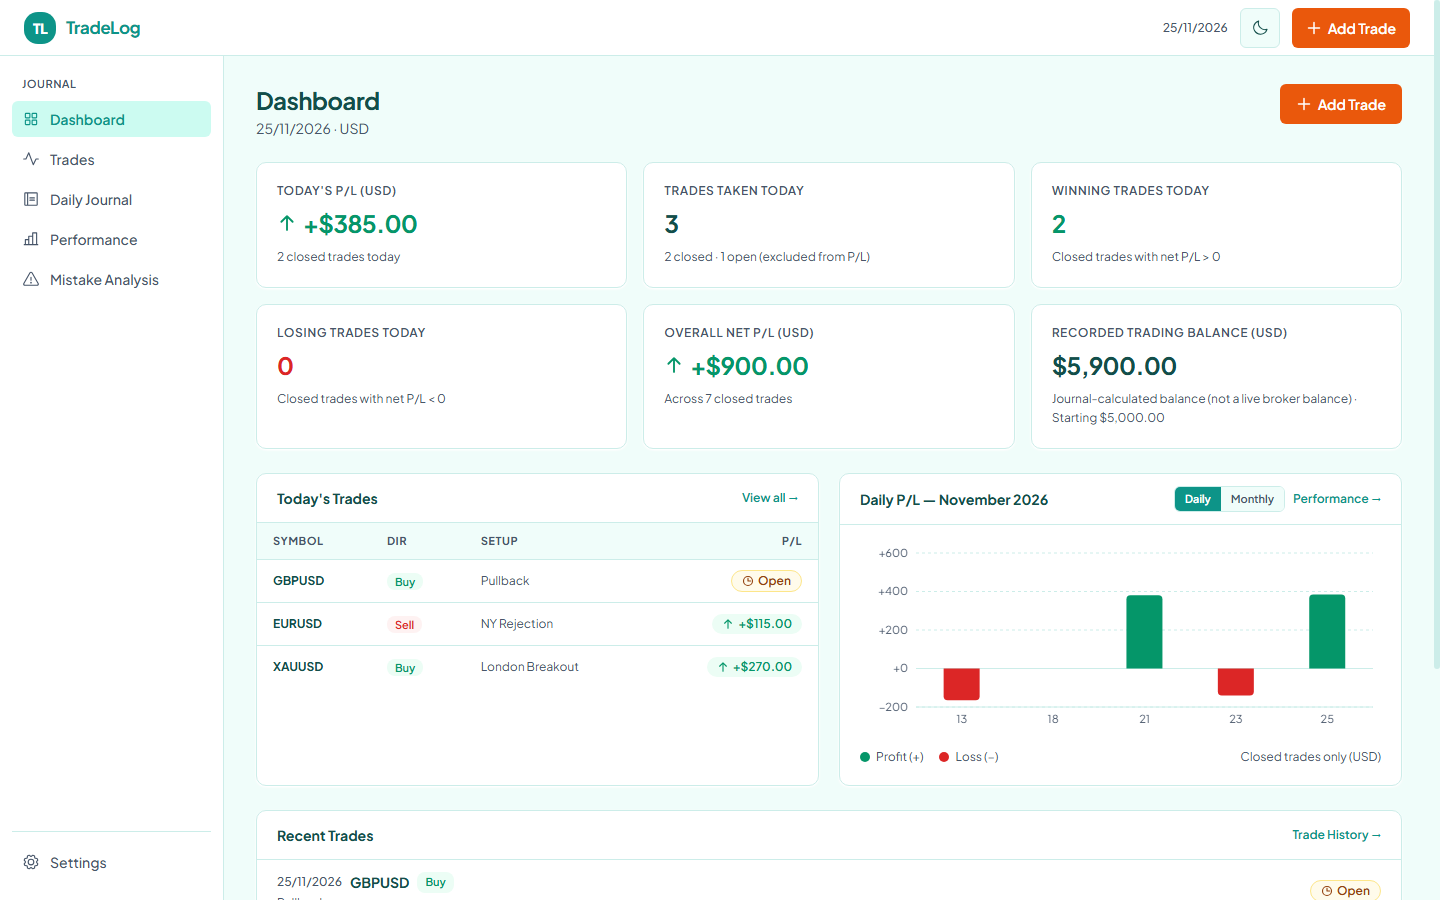
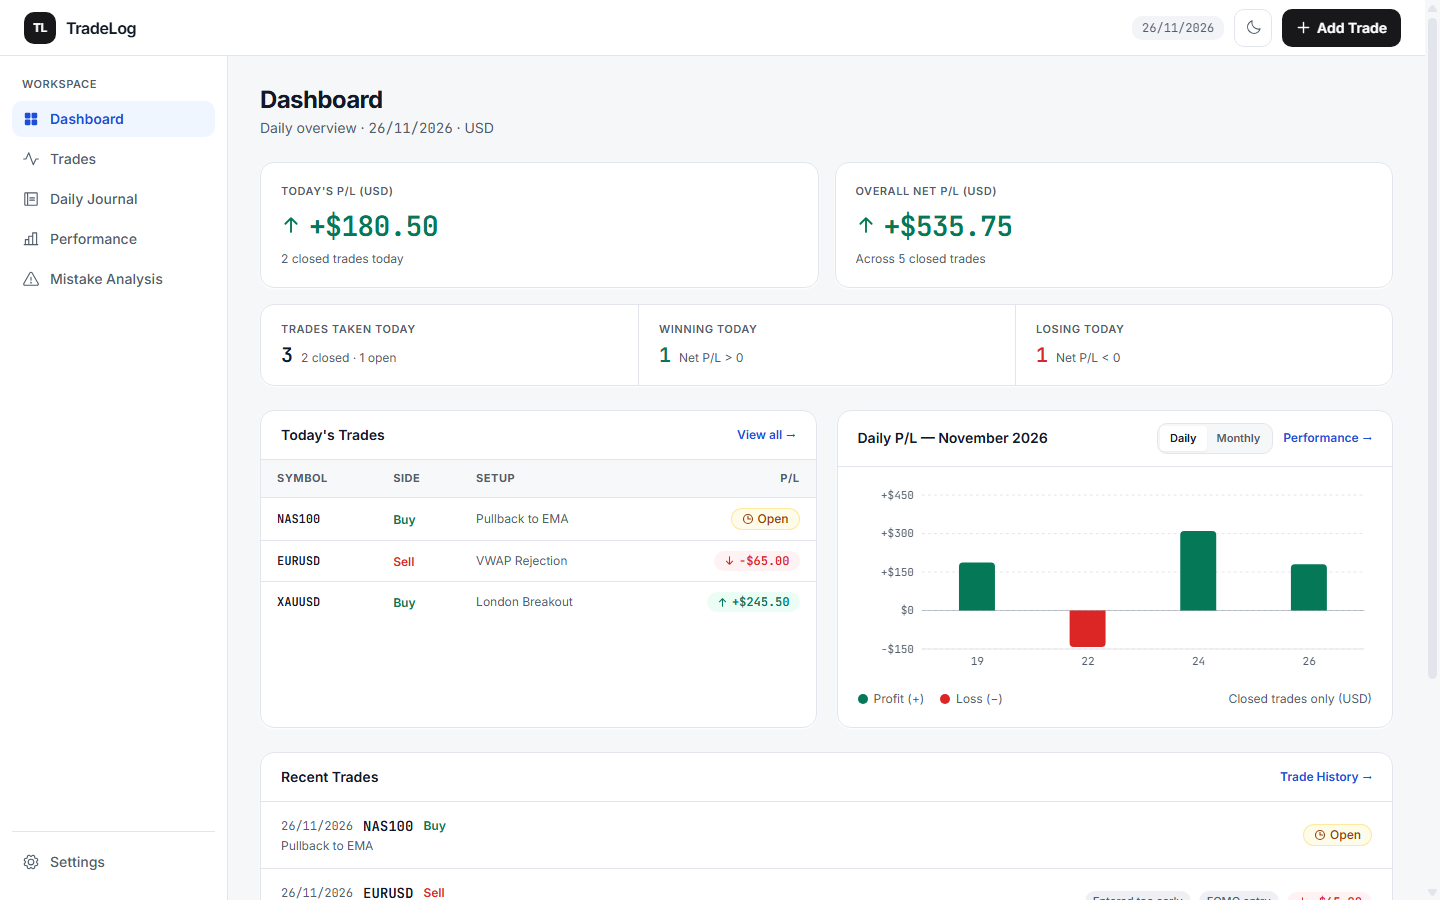
docs: update README and refresh screenshots for visual redesign

diff --git a/README.md b/README.md
@@ -1,6 +1,6 @@
 # TradeLog — Personal Trading Journal
 
-A clean, lightweight **personal trading journal web application** for recording trades, daily profit/loss, trading mistakes, emotions, and lessons learned. Built as a calm digital diary for self-review—not a trading terminal or broker platform.
+A clean, calm **personal trading journal web application** designed with a **Crisp Swiss Fintech Workspace** aesthetic for recording trades, daily profit/loss, trading mistakes, emotions, and lessons learned. Built as a focused digital diary for self-review—not a trading terminal or broker platform.
 
 ---
 
@@ -25,35 +25,36 @@ A clean, lightweight **personal trading journal web application** for recording 
 
 ## Core Features
 
-1. **Dashboard**
-   - Summary cards: Today's P/L, Trades Taken Today, Winning Trades Today, Losing Trades Today, Overall Net P/L, and optional journal-calculated Recorded Trading Balance.
-   - Today's trades list, Recent Trades (last 5), Daily/Monthly P/L bar chart, quick **Add Trade** action, and a reminder banner when today's daily journal is incomplete.
-   - Open trades are always excluded from realized P/L totals.
+1. **Dashboard (`/`)**
+   - Primary outcome cards (**Today's P/L**, **Overall Net P/L**, and optional journal-calculated **Recorded Balance**) paired with a unified **Today Activity Strip** (**Trades Taken**, **Winning Today**, **Losing Today**).
+   - **Today's Trades**, **Recent Trades** (last 5), a currency-formatted **Daily / Monthly P/L** bar chart, and a subtle reminder banner when today's daily journal is still open.
+   - Open trades are always excluded from realized P/L totals; all financial figures use tabular monospace numerals (`JetBrains Mono`) for crisp alignment.
 2. **Trades (`/trades`)**
    - Fast Add / Edit trade form with pre-populated common instruments (`XAUUSD`, `EURUSD`, `GBPUSD`, `USDJPY`, `GBPJPY`, `BTCUSD`, indices, oil) plus custom symbol support.
    - Manual signed P/L entry (`+` profit, `−` loss, `0` breakeven).
    - Journaling fields: Setup, Entry Reason, Exit Reason, Multi-select Mistakes (+ custom mistake), Emotion, Followed Plan (`Yes` / `No` / `Partially`), Lesson Learned, and multi-image chart screenshot uploads.
-   - Search by symbol or notes, filter by date range/symbol/direction/outcome/mistake/status, sort by date or P/L, responsive mobile trade cards, detail lightbox, and delete confirmation.
+   - Search by symbol or notes, filter by date range/symbol/direction/outcome/mistake/status, sort by date or P/L, keyboard-scrollable desktop table (`lg+`), responsive 1- and 2-column trade cards on mobile & tablet (`375px` / `768px`), detail lightbox, and delete confirmation.
 3. **Daily Journal (`/journal`)**
    - One reflection entry per date (enforced at DB & API level) with all 7 reflection fields + plan-followed selector.
-   - Automatically displays that day's realized P/L and trade count at the top.
-   - Interactive month calendar + saved entries list, incomplete draft saving, and local unsaved-draft backup.
+   - Automatically displays the selected session's realized P/L and trade count at the top.
+   - Persistent month calendar & saved entries side rail on desktop (`lg+`), and a compact date selector with a collapsible **Calendar & Saved Entries** drawer on mobile/tablet so writing space stays uncluttered.
+   - Incomplete draft saving and local unsaved-draft backup.
 4. **Performance (`/performance`)**
-   - Closed-trade metrics: Total Closed Trades, Wins, Losses, Breakeven, Win Rate (`wins / all closed × 100`), Gross Profit, Gross Loss, Net P/L, Average Win, Average Loss, Best Trade, and Worst Trade (`---` on zero denominators).
+   - Headline KPIs (**Net P/L**, **Win Rate**, **Gross Profit**, **Gross Loss**) and grouped **Trade Volume & Outcomes** and **Averages & Extremes** panels (Total Closed, Wins, Losses, Breakeven, Average Win, Average Loss, Best Trade, Worst Trade — `---` on zero denominators).
    - Time filters: Today, This Week, This Month, Last Month, This Year, All Time, and Custom Date Range.
-   - Daily P/L bar chart, Monthly P/L bar chart, Cumulative P/L line chart, and mixed-currency safeguards.
+   - Currency-formatted Daily P/L bar chart, Monthly P/L bar chart, Cumulative P/L line chart, and mixed-currency safeguards.
 5. **Mistake Analysis (`/mistakes`)**
-   - Neutral frequency ranking of tagged mistakes, monthly breakdown, associated closed-trade P/L, and click-to-inspect drill-down showing all trades tagged with each mistake.
+   - Neutral frequency ranking of tagged mistakes with semantic progress bars, monthly breakdown, associated closed-trade P/L, and click-to-inspect drill-down showing all trades tagged with each mistake.
 6. **Settings, Export & Backup (`/settings`)**
-   - Preferred currency, optional starting balance, Light/Dark theme persistence, and custom instruments / custom mistakes management.
+   - Preferred currency, optional starting balance, Sun/Moon Light & Obsidian Dark theme persistence, and custom instruments / custom mistakes management.
    - **CSV Export** of all trades (`YYYY-MM-DD` dates, signed P/L, mistakes, screenshot references, RFC-4180 escaping).
-   - **Full JSON Backup & Transactional Restore** with schema validation, new-vs-duplicate preview, explicit confirmation dialog, **Safe Merge** (skip duplicates) or **Update Duplicates**, and SQLite rollback on error.
+   - **Full JSON Backup & Transactional Restore** with schema validation, new-vs-duplicate preview, explicit confirmation dialog, **Safe Merge** (skip duplicates) vs caution-framed **Merge & Overwrite Duplicates**, and SQLite rollback on error.
 
 ---
 
 ## Tech Stack
 
-- **Frontend:** React 18, Vite 6, TypeScript, Tailwind CSS v3, TanStack React Query, Zustand, Recharts, Phosphor Icons
+- **Frontend:** React 18, Vite 6, TypeScript, Tailwind CSS v3 (`Inter` + `JetBrains Mono`), TanStack React Query, Zustand, Recharts, Phosphor Icons
 - **Backend:** Node.js, Express.js, Multer
 - **Database:** SQLite via Node.js built-in `node:sqlite` (`DatabaseSync`, WAL mode)
 - **Package Manager:** pnpm (workspaces)
@@ -128,7 +129,7 @@ node server/test-phase6.js   # Settings persistence, CSV/JSON export, preview & 
 trade-journal/
 ├── client/                  # React + Vite + TypeScript frontend
 │   └── src/
-│       ├── components/      # Layout, ThemeProvider, TradeForm, TradeDetail, PnlBadge, ConfirmDialog
+│       ├── components/      # Layout, ThemeProvider, TradeForm, TradeDetail, PnlBadge, SignedPnlBarShape, ConfirmDialog
 │       ├── hooks/           # React Query hooks (useTrades, useJournal)
 │       ├── lib/             # API wrapper, constants, date/currency/analytics utils
 │       └── pages/           # Dashboard, Trades, Journal, Performance, Mistakes, Settings
